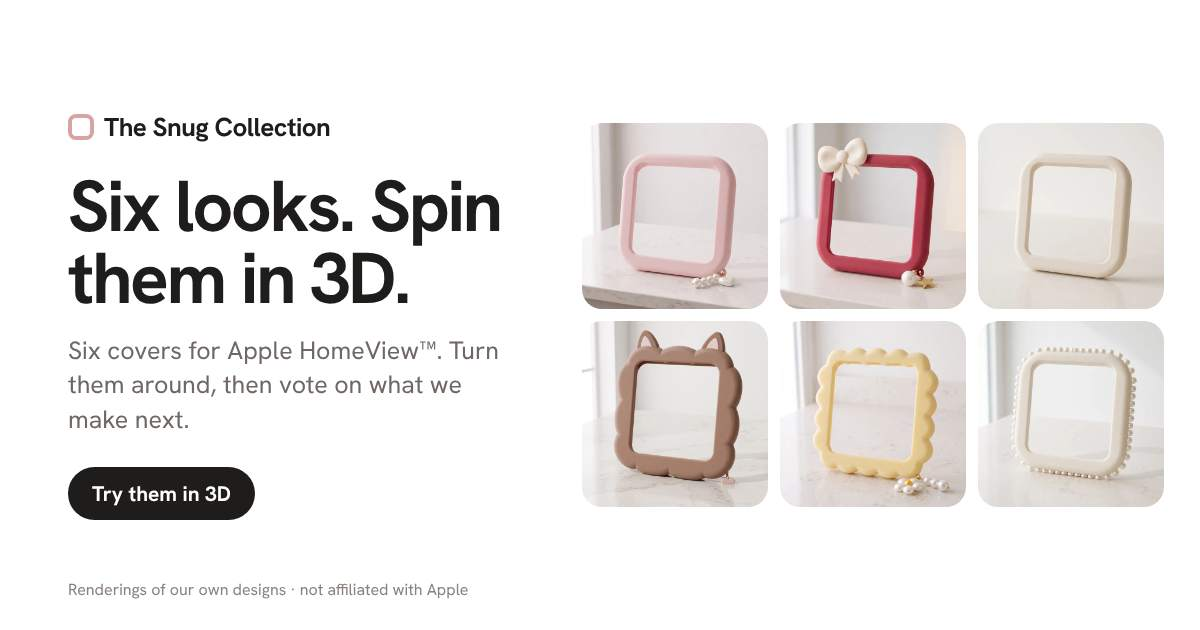
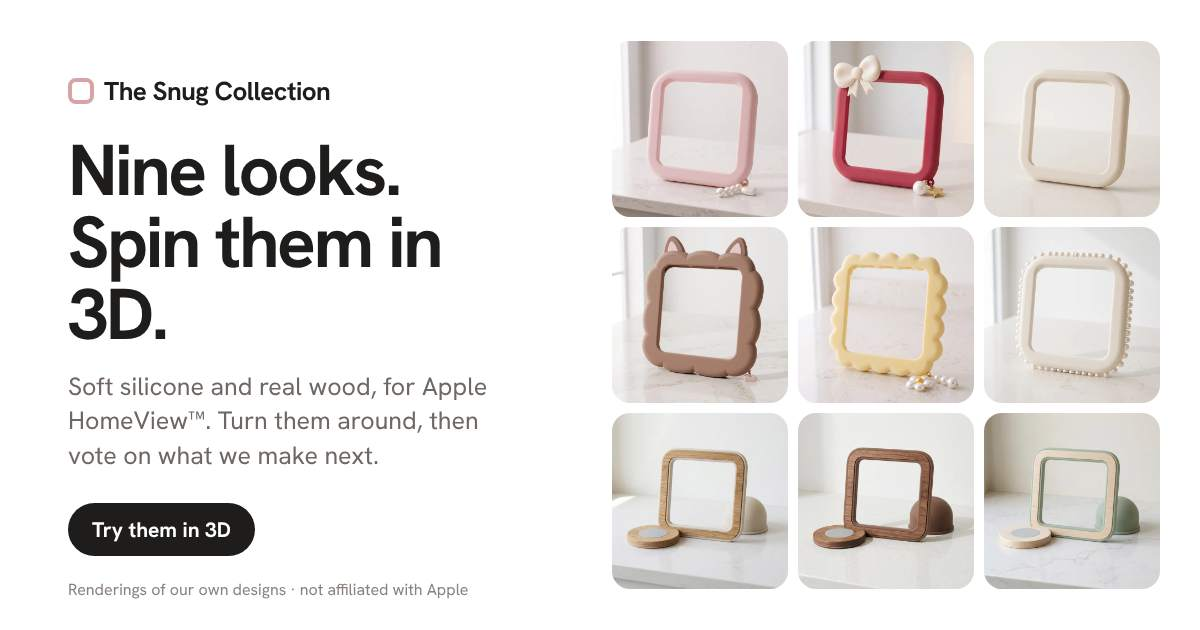
$49 sets, wood looks, and a reorganized home page
- Pricing: every launch set (frame, sweater, base) is $49 with free
  shipping; a cover or a base alone is $34. Wood sets $59, wood cover $44.
  Holly Bow no longer priced separately. "Launch pricing" wording removed.
- Wood: Oak & Oat, Walnut & Cocoa, Maple & Sage. Home section, waitlist
  vote options, and all three in the 3D fitting room (baked grain
  textures, wood-sided base, no finish picker for wood).
- Home order: launch sets, base, wood, next soft looks with fit facts,
  waitlist, FAQ. Nav adds Wood. Fitting room now nine looks.
- FAQ materials and share images updated.

Claude-Session: https://claude.ai/code/session_01CYiDDCTx8Bf11yDRq8LK9D

diff --git a/src/index.html b/src/index.html
@@ -25,7 +25,7 @@
 {"@context":"https://schema.org","@type":"FAQPage","mainEntity":[
 {"@type":"Question","name":"When does it ship?","acceptedAnswer":{"@type":"Answer","text":"HomeView arrives November 13. We test fit, sound and the hinge on real units that week, open pre-orders with real photos, and ship the first drop in December. Made in Georgia, in small batches."}},
 {"@type":"Question","name":"Does the cover change the sound or block the camera?","acceptedAnswer":{"@type":"Answer","text":"The sweater stops above the speaker band and every frame leaves the camera strip open. We measure the sound with and without the cover, and we won't ship a look that changes it."}},
-{"@type":"Question","name":"What is it made of?","acceptedAnswer":{"@type":"Answer","text":"Platinum-cure silicone for the frames, sweaters, toppers and charm loops, and aluminum or nylon for the base. No metal and no magnets anywhere near the device."}},
+{"@type":"Question","name":"What is it made of?","acceptedAnswer":{"@type":"Answer","text":"Platinum-cure silicone for the frames, sweaters, toppers and charm loops, and aluminum or nylon for the base. The wood looks add a 3 mm face of real oak, walnut or maple. No metal and no magnets anywhere near the device."}},
 {"@type":"Question","name":"Will it fit the wall-mounted HomeView?","acceptedAnswer":{"@type":"Answer","text":"The first frames are for the tabletop model. A wall version is on the list if enough of you ask for it."}},
 {"@type":"Question","name":"Is this an Apple product?","acceptedAnswer":{"@type":"Answer","text":"No. The Snug Collection is an independent small business. We make accessories for Apple HomeView and are not affiliated with or endorsed by Apple."}},
 {"@type":"Question","name":"Does joining the waitlist cost anything?","acceptedAnswer":{"@type":"Answer","text":"No. Joining is free and doesn't commit you to buy. You'll get an email when pre-orders open."}}]}]
@@ -69,6 +69,9 @@
 .prices{color:var(--muted)}.prices b{color:var(--ink);font-weight:700}
 .cta{display:flex;gap:12px;flex-wrap:wrap;justify-content:center;margin-top:8px}
 
+/* the set price line and the fit facts */
+.setline{margin-top:26px;font-size:17px}.setline b{font-weight:700}
+.fitblock{margin-top:56px}.fitblock h2{font-size:clamp(26px,4vw,40px)}
 /* the swivel base facts */
 .facts{display:grid;gap:12px;max-width:52ch;margin:24px auto 0;color:var(--muted)}
 .facts b{color:var(--ink);font-weight:700}
@@ -129,7 +132,7 @@
 <img class="ph" src="{{A:img/set-holly.webp}}" width="1200" height="1200" alt="The Holly Bow set: a cranberry frame with an ivory bow, an ivory sweater and an Aluminum base" data-look="holly" loading="lazy" decoding="async">
 <img class="ph" src="{{A:img/set-oat.webp}}" width="1200" height="1200" alt="The Oat Puff set: a cream frame, a cream sweater and a Graphite base" data-look="oat" loading="lazy" decoding="async">
 <canvas id="c" aria-label="Interactive 3D view of the cover. Drag sideways to turn." hidden></canvas>
-<a class="room glass" href="/collection/">All six in 3D</a>
+<a class="room glass" href="/collection/">All nine in 3D</a>
 <button class="spin glass" type="button" id="spinBtn"><svg viewBox="0 0 24 24" fill="none" stroke="currentColor" stroke-width="2" stroke-linecap="round" stroke-linejoin="round" aria-hidden="true"><path d="M3 12a9 9 0 0 1 15.5-6.3M21 12a9 9 0 0 1-15.5 6.3"/><path d="M18 2v4h-4M6 22v-4h4"/></svg>Spin it in 3D</button>
 <p class="hint glass" id="hint">Drag to turn · 3D rendering</p>
 </div>
@@ -140,7 +143,7 @@
 <button class="dot" type="button" style="--c:#E3D6C3" data-look="oat" aria-pressed="false"><span>Oat Puff</span></button>
 </div>
 <p class="pname" id="pname">Blush Puff</p>
-<p class="prices" id="prices"><b>$32</b> cover · <b>$49</b> base · <b>$72</b> the set</p>
+<p class="prices" id="prices"><b>$49</b> the set, free shipping · cover or base alone $34</p>
 <div class="cta"><a class="btn" href="#waitlist">Join the waitlist</a></div>
 <p class="note">Renderings of our own designs. Real photos once we test on real units in November.</p>
 </section></div>
@@ -149,57 +152,72 @@
 <h2>Three to start.<br>You choose what ships first.</h2>
 <p class="lede" style="margin-top:12px">Each look is a thick silicone frame that slips over the screen edge and a silicone sweater for the body, with a base to match. The speaker band and the camera stay open.</p>
 <div class="row3">
-<div><img src="{{A:img/set-blush.webp}}" width="1200" height="1200" alt="The Blush Puff set: frame, sweater and a Cloud base" loading="lazy" decoding="async"><b>Blush Puff</b><small>A puffy pink frame, a matching sweater and a pearl strand charm. $72 the set with a Cloud base.</small><div class="act"><a class="btn ghost small" href="#waitlist" data-pick="blush">Vote for Blush Puff</a></div></div>
-<div><img src="{{A:img/set-holly.webp}}" width="1200" height="1200" alt="The Holly Bow set: frame with bow, ivory sweater and an Aluminum base" loading="lazy" decoding="async"><b>Holly Bow</b><small>Cranberry frame with an ivory bow and an ivory sweater. Holiday run. $76 the set with an Aluminum base.</small><div class="act"><a class="btn ghost small" href="#waitlist" data-pick="holly">Vote for Holly Bow</a></div></div>
-<div><img src="{{A:img/set-oat.webp}}" width="1200" height="1200" alt="The Oat Puff set: frame, cream sweater and a Graphite base" loading="lazy" decoding="async"><b>Oat Puff</b><small>A cream frame and a cream sweater. The quiet one. $72 the set with a Graphite base.</small><div class="act"><a class="btn ghost small" href="#waitlist" data-pick="oat">Vote for Oat Puff</a></div></div>
+<div><img src="{{A:img/set-blush.webp}}" width="1200" height="1200" alt="The Blush Puff set: frame, sweater and a Cloud base" loading="lazy" decoding="async"><b>Blush Puff</b><small>A puffy pink frame, a matching sweater and a pearl strand charm. $49 the set with a Cloud base.</small><div class="act"><a class="btn ghost small" href="#waitlist" data-pick="blush">Vote for Blush Puff</a></div></div>
+<div><img src="{{A:img/set-holly.webp}}" width="1200" height="1200" alt="The Holly Bow set: frame with bow, ivory sweater and an Aluminum base" loading="lazy" decoding="async"><b>Holly Bow</b><small>Cranberry frame with an ivory bow and an ivory sweater. Holiday run. $49 the set with an Aluminum base.</small><div class="act"><a class="btn ghost small" href="#waitlist" data-pick="holly">Vote for Holly Bow</a></div></div>
+<div><img src="{{A:img/set-oat.webp}}" width="1200" height="1200" alt="The Oat Puff set: frame, cream sweater and a Graphite base" loading="lazy" decoding="async"><b>Oat Puff</b><small>A cream frame and a cream sweater. The quiet one. $49 the set with a Graphite base.</small><div class="act"><a class="btn ghost small" href="#waitlist" data-pick="oat">Vote for Oat Puff</a></div></div>
 </div>
 <div class="row3" style="margin-top:36px">
-<div><img src="{{A:img/photo-blush-640.webp}}" width="640" height="640" alt="The Blush Puff frame up close" loading="lazy" decoding="async"><b>The frame, up close</b><small>Puff edge, thick enough to grip the screen without touching the glass. $32 on its own.</small></div>
-<div><img src="{{A:img/photo-holly-640.webp}}" width="640" height="640" alt="The Holly Bow frame up close, with the bow and charms" loading="lazy" decoding="async"><b>The bow clips off</b><small>Holly keeps its frame after the holidays. The bow and charms come off. $36 on its own.</small></div>
-<div><img src="{{A:img/photo-oat-640.webp}}" width="640" height="640" alt="The Oat Puff frame up close" loading="lazy" decoding="async"><b>Nothing to snag</b><small>One cast piece of silicone. Wipes clean. $32 on its own.</small></div>
+<div><img src="{{A:img/photo-blush-640.webp}}" width="640" height="640" alt="The Blush Puff frame up close" loading="lazy" decoding="async"><b>The frame, up close</b><small>Puff edge, thick enough to grip the screen without touching the glass. The cover alone is $34.</small></div>
+<div><img src="{{A:img/photo-holly-640.webp}}" width="640" height="640" alt="The Holly Bow frame up close, with the bow and charms" loading="lazy" decoding="async"><b>The bow clips off</b><small>Holly keeps its frame after the holidays. The bow and charms come off. The cover alone is $34.</small></div>
+<div><img src="{{A:img/photo-oat-640.webp}}" width="640" height="640" alt="The Oat Puff frame up close" loading="lazy" decoding="async"><b>Nothing to snag</b><small>One cast piece of silicone. Wipes clean. The cover alone is $34.</small></div>
 </div>
-<p class="note" style="margin-top:22px">Planned prices. Images are renderings of our own designs; the finished product may vary. No Apple product is shown.</p>
+<p class="setline">Every set is <b>$49</b> with free shipping: frame, sweater and base. A cover or a base on its own is $34.</p>
+<p class="note" style="margin-top:12px">Planned prices. Images are renderings of our own designs; the finished product may vary. No Apple product is shown.</p>
 </div></section>
 
 <section class="sec center" id="base"><div class="wrap">
 <h2>The base. Three finishes.</h2>
 <p class="lede" style="margin-top:12px">A slim swivel ring the HomeView sits in. Turn it toward the stove, the sink or the table with one finger. Aluminum matches the device; Cloud and Graphite match the room.</p>
 <div class="row3">
-<div><img src="{{A:img/base-cloud.webp}}" width="1200" height="1200" alt="The swivel base in Cloud, a matte white finish" loading="lazy" decoding="async"><b>Cloud</b><small>$49</small></div>
-<div><img src="{{A:img/base-aluminum.webp}}" width="1200" height="1200" alt="The swivel base in brushed Aluminum" loading="lazy" decoding="async"><b>Aluminum</b><small>$49</small></div>
-<div><img src="{{A:img/base-graphite.webp}}" width="1200" height="1200" alt="The swivel base in Graphite, a dark matte finish" loading="lazy" decoding="async"><b>Graphite</b><small>$49</small></div>
+<div><img src="{{A:img/base-cloud.webp}}" width="1200" height="1200" alt="The swivel base in Cloud, a matte white finish" loading="lazy" decoding="async"><b>Cloud</b><small>$34 alone, or in any $49 set</small></div>
+<div><img src="{{A:img/base-aluminum.webp}}" width="1200" height="1200" alt="The swivel base in brushed Aluminum" loading="lazy" decoding="async"><b>Aluminum</b><small>$34 alone, or in any $49 set</small></div>
+<div><img src="{{A:img/base-graphite.webp}}" width="1200" height="1200" alt="The swivel base in Graphite, a dark matte finish" loading="lazy" decoding="async"><b>Graphite</b><small>$34 alone, or in any $49 set</small></div>
 </div>
 <div class="facts">
 <p><b>Stops at 170° each way</b> so the power cable never wraps.</p>
 <p><b>No magnets, nothing near the radios.</b> A silicone cup holds the foot; the speaker band stays open.</p>
-<p><b>$49 alone, $72 with any cover.</b> Free shipping on the set.</p>
+<p><b>$34 alone, or part of any $49 set.</b> Free shipping on sets.</p>
 </div>
 <div class="cta" style="margin-top:22px"><a class="btn ghost" href="#waitlist" data-pick="base">Notify me about the base</a></div>
 </div></section>
 
-<section class="alt sec center" id="next"><div class="wrap">
+<section class="alt sec center" id="wood"><div class="wrap">
+<h2>Real wood on the outside.</h2>
+<p class="lede" style="margin-top:12px">A 3 mm face of real oak, walnut or maple, set into a silicone frame. The silicone grips the screen edge, so it slips on the same way the soft covers do. In development: we prototype these after we measure real units.</p>
+<div class="row3">
+<div><img src="{{A:img/look-oak-640.webp}}" width="640" height="640" alt="Oak &amp; Oat: an oak-faced frame with an oat silicone rim, an oat sweater and an oak base" loading="lazy" decoding="async"><b>Oak &amp; Oat</b><small>White oak on oat silicone, with an oak base. Light and warm.</small><div class="act"><a class="btn ghost small" href="#waitlist" data-next="oak">Vote for Oak &amp; Oat</a></div></div>
+<div><img src="{{A:img/look-walnut-640.webp}}" width="640" height="640" alt="Walnut &amp; Cocoa: a walnut-faced frame with a cocoa silicone rim, a cocoa sweater and a walnut base" loading="lazy" decoding="async"><b>Walnut &amp; Cocoa</b><small>American walnut on cocoa silicone. For darker kitchens.</small><div class="act"><a class="btn ghost small" href="#waitlist" data-next="walnut">Vote for Walnut &amp; Cocoa</a></div></div>
+<div><img src="{{A:img/look-maple-640.webp}}" width="640" height="640" alt="Maple &amp; Sage: a maple-faced frame with a sage silicone rim, a sage sweater and a maple base" loading="lazy" decoding="async"><b>Maple &amp; Sage</b><small>Pale maple on sage silicone. A cottage kitchen in one piece.</small><div class="act"><a class="btn ghost small" href="#waitlist" data-next="maple">Vote for Maple &amp; Sage</a></div></div>
+</div>
+<p class="setline">Wood sets are <b>$59</b> with free shipping. A wood cover on its own is $44.</p>
+<div class="cta" style="margin-top:18px"><a class="btn ghost" href="/collection/#oak">Turn them in 3D</a></div>
+<p class="note" style="margin-top:14px">Planned prices. Renderings of our own designs.</p>
+</div></section>
+
+<section class="sec center" id="next"><div class="wrap">
 <h2>Which one next?</h2>
-<p class="lede" style="margin-top:12px">Three looks we're ready to make after the first three. The winner starts in January.</p>
+<p class="lede" style="margin-top:12px">Three more soft looks we're ready to make. They're on the ballot with the wood looks, and the winner starts in January.</p>
 <div class="row3">
 <div><img src="{{A:img/photo-kitty-640.webp}}" width="640" height="640" alt="Cocoa Kitty: a cocoa cloud-edged frame with cat ears" loading="lazy" decoding="async"><b>Cocoa Kitty</b><small>Cat ears and a cloud edge turn the screen into a character.</small><div class="act"><a class="btn ghost small" href="#waitlist" data-next="kitty">Vote for Cocoa Kitty</a></div></div>
 <div><img src="{{A:img/photo-butter-640.webp}}" width="640" height="640" alt="Butter Wave: a butter-yellow wave-edged frame" loading="lazy" decoding="async"><b>Butter Wave</b><small>Butter yellow on a wavy edge, with a daisy and a pearl strand.</small><div class="act"><a class="btn ghost small" href="#waitlist" data-next="butter">Vote for Butter Wave</a></div></div>
 <div><img src="{{A:img/photo-pearl-640.webp}}" width="640" height="640" alt="Pearl Bobbin: a cream frame ringed with pearl beads" loading="lazy" decoding="async"><b>Pearl Bobbin</b><small>Pearl beads ring the frame, so it ships already accessorized.</small><div class="act"><a class="btn ghost small" href="#waitlist" data-next="pearl">Vote for Pearl Bobbin</a></div></div>
 </div>
-<div class="cta" style="margin-top:28px"><a class="btn ghost" href="/collection/">Spin all six in 3D</a></div>
-</div></section>
-
-<section class="sec center" id="fit"><div class="wrap">
+<div class="cta" style="margin-top:28px"><a class="btn ghost" href="/collection/">Spin all nine in 3D</a></div>
+<div class="fitblock" id="fit">
 <h2>Made for the real thing.</h2>
 <div class="facts">
 <p><b>Fits the 7-inch tabletop HomeView.</b> Screen, camera and speakers stay open.</p>
 <p><b>Tested on real units first.</b> Pre-orders open with real photos after the November 13 launch. First drop ships December.</p>
 <p><b>Everything swaps.</b> Frames, sweaters, toppers, charms and base rings are separate parts, so later drops mix with this one.</p>
 </div>
+</div>
 </div></section>
+
+
 
 <section class="alt sec center" id="waitlist"><div class="wrap">
 <h2>Pick the first drop.</h2>
-<p class="lede" style="margin-top:12px">Nothing to pay today. The look with the most votes gets made first, and the waitlist gets launch pricing before anyone else.</p>
+<p class="lede" style="margin-top:12px">Nothing to pay today. The look with the most votes gets made first, and the waitlist hears about pre-orders before anyone else.</p>
 <form class="form" id="wl" novalidate data-endpoint="{{WAITLIST}}">
 <div class="field"><label for="email">Email</label><input id="email" name="email" type="email" required autocomplete="email" inputmode="email" spellcheck="false" placeholder="you@example.com" aria-describedby="email-err"><p class="fe" id="email-err" role="alert"></p></div>
 <fieldset><legend>Which look first?</legend><div class="opts">
@@ -211,6 +229,9 @@
 <span class="opt"><input type="radio" id="n1" name="next_look" value="kitty"><label for="n1"><span class="sw" style="--c:#8B6753"></span>Cocoa Kitty</label></span>
 <span class="opt"><input type="radio" id="n2" name="next_look" value="butter"><label for="n2"><span class="sw" style="--c:#EED27C"></span>Butter Wave</label></span>
 <span class="opt"><input type="radio" id="n3" name="next_look" value="pearl"><label for="n3"><span class="sw" style="--c:#F2E9DB"></span>Pearl Bobbin</label></span>
+<span class="opt"><input type="radio" id="n4" name="next_look" value="oak"><label for="n4"><span class="sw" style="--c:#C49A68"></span>Oak &amp; Oat</label></span>
+<span class="opt"><input type="radio" id="n5" name="next_look" value="walnut"><label for="n5"><span class="sw" style="--c:#6B4A33"></span>Walnut &amp; Cocoa</label></span>
+<span class="opt"><input type="radio" id="n6" name="next_look" value="maple"><label for="n6"><span class="sw" style="--c:#D9BE93"></span>Maple &amp; Sage</label></span>
 </div></fieldset>
 <fieldset><legend>Base finish <span class="muted" style="font-weight:400">(optional)</span></legend><div class="opts">
 <span class="opt"><input type="radio" id="f1" name="finish" value="cloud"><label for="f1"><span class="sw" style="--c:#F3F1EE"></span>Cloud</label></span>
@@ -241,7 +262,7 @@
 <span class="opt"><input type="radio" id="c3" name="hv_color" value="silver"><label for="c3">Silver</label></span>
 <span class="opt"><input type="radio" id="c4" name="hv_color" value="gray"><label for="c4">Space gray</label></span>
 </div></fieldset>
-<fieldset><legend>$32 for a cover, $49 for the base, $72 for the set. Fair?</legend><div class="opts">
+<fieldset><legend>$49 for a set with free shipping, or $34 for a cover or base on its own. Fair?</legend><div class="opts">
 <span class="opt"><input type="radio" id="p1" name="price_ok" value="yes"><label for="p1">Yes</label></span>
 <span class="opt"><input type="radio" id="p2" name="price_ok" value="maybe"><label for="p2">Maybe</label></span>
 <span class="opt"><input type="radio" id="p3" name="price_ok" value="no"><label for="p3">Too much</label></span>
@@ -270,7 +291,7 @@
 <h2 style="margin-bottom:18px">Questions</h2>
 <details open><summary>When does it ship?</summary><div class="ans"><div>HomeView arrives November 13. We test fit, sound and the hinge on real units that week, open pre-orders with real photos, and ship the first drop in December. Made in Georgia, in small batches.</div></div></details>
 <details><summary>Does the cover change the sound or block the camera?</summary><div class="ans"><div>The sweater stops above the speaker band and every frame leaves the camera strip open. We measure the sound with and without the cover, and we won't ship a look that changes it.</div></div></details>
-<details><summary>What is it made of?</summary><div class="ans"><div>Platinum-cure silicone for the frames, sweaters, toppers and charm loops, and aluminum or nylon for the base. No metal and no magnets anywhere near the device.</div></div></details>
+<details><summary>What is it made of?</summary><div class="ans"><div>Platinum-cure silicone for the frames, sweaters, toppers and charm loops, and aluminum or nylon for the base. The wood looks add a 3 mm face of real oak, walnut or maple. No metal and no magnets anywhere near the device.</div></div></details>
 <details><summary>Will it fit the wall-mounted HomeView?</summary><div class="ans"><div>The first frames are for the tabletop model. A wall version is on the list if enough of you ask for it.</div></div></details>
 <details><summary>Is this an Apple product?</summary><div class="ans"><div>No. The Snug Collection is an independent small business. We make accessories for Apple HomeView and are not affiliated with or endorsed by Apple.</div></div></details>
 <details><summary>Does joining the waitlist cost anything?</summary><div class="ans"><div>No. Joining is free and doesn't commit you to buy. You'll get an email when pre-orders open.</div></div></details>

diff --git a/src/collection/index.html b/src/collection/index.html
@@ -2,32 +2,35 @@
 <html lang="en">
 <head>
 {{HEAD}}
-<title>Six looks in 3D · The Snug Collection</title>
-<meta name="description" content="Turn all six Snug Collection covers for Apple HomeView in 3D: Blush Puff, Holly Bow and Oat Puff launch first; vote for Cocoa Kitty, Butter Wave or Pearl Bobbin next. Try the base in Cloud, Aluminum or Graphite.">
+<title>Nine looks in 3D · The Snug Collection</title>
+<meta name="description" content="Turn all nine Snug Collection covers for Apple HomeView in 3D: Blush Puff, Holly Bow and Oat Puff launch first; vote for what comes next, including real-wood covers in oak, walnut and maple. Try the base in Cloud, Aluminum or Graphite.">
 <link rel="canonical" href="{{ORIGIN}}/collection/">
 <meta property="og:type" content="website">
 <meta property="og:site_name" content="The Snug Collection">
 <meta property="og:url" content="{{ORIGIN}}/collection/">
-<meta property="og:title" content="Six looks in 3D · The Snug Collection">
-<meta property="og:description" content="Six soft covers for the new Apple HomeView. Spin them in 3D and vote on what we make next.">
+<meta property="og:title" content="Nine looks in 3D · The Snug Collection">
+<meta property="og:description" content="Soft silicone and real-wood covers for the new Apple HomeView. Spin them in 3D and vote on what we make next.">
 <meta property="og:image" content="{{ORIGIN}}/og-collection.jpg">
 <meta property="og:image:width" content="1200">
 <meta property="og:image:height" content="630">
-<meta property="og:image:alt" content="Six soft silicone frames: blush, holly red, oat, cocoa with cat ears, butter yellow and pearl-trimmed cream">
+<meta property="og:image:alt" content="Nine covers for Apple HomeView: six silicone frames and three with real oak, walnut and maple faces">
 <meta name="twitter:card" content="summary_large_image">
-<meta name="twitter:title" content="Six looks in 3D · The Snug Collection">
-<meta name="twitter:description" content="Six soft covers for the new Apple HomeView. Spin them in 3D and vote on what we make next.">
+<meta name="twitter:title" content="Nine looks in 3D · The Snug Collection">
+<meta name="twitter:description" content="Soft silicone and real-wood covers for the new Apple HomeView. Spin them in 3D and vote on what we make next.">
 <meta name="twitter:image" content="{{ORIGIN}}/og-collection.jpg">
 <link rel="preload" href="{{A:img/photo-blush.webp}}" as="image" type="image/webp" fetchpriority="high">
 <script type="application/ld+json">
-{"@context":"https://schema.org","@type":"CollectionPage","name":"Six looks in 3D","url":"{{ORIGIN}}/collection/","isPartOf":{"@type":"WebSite","name":"The Snug Collection","url":"{{ORIGIN}}/"},
+{"@context":"https://schema.org","@type":"CollectionPage","name":"Nine looks in 3D","url":"{{ORIGIN}}/collection/","isPartOf":{"@type":"WebSite","name":"The Snug Collection","url":"{{ORIGIN}}/"},
 "mainEntity":{"@type":"ItemList","itemListElement":[
 {"@type":"ListItem","position":1,"name":"Blush Puff","url":"{{ORIGIN}}/collection/#blush"},
 {"@type":"ListItem","position":2,"name":"Holly Bow","url":"{{ORIGIN}}/collection/#holly"},
 {"@type":"ListItem","position":3,"name":"Oat Puff","url":"{{ORIGIN}}/collection/#oat"},
 {"@type":"ListItem","position":4,"name":"Cocoa Kitty","url":"{{ORIGIN}}/collection/#kitty"},
 {"@type":"ListItem","position":5,"name":"Butter Wave","url":"{{ORIGIN}}/collection/#butter"},
-{"@type":"ListItem","position":6,"name":"Pearl Bobbin","url":"{{ORIGIN}}/collection/#pearl"}]}}
+{"@type":"ListItem","position":6,"name":"Pearl Bobbin","url":"{{ORIGIN}}/collection/#pearl"},
+{"@type":"ListItem","position":7,"name":"Oak & Oat","url":"{{ORIGIN}}/collection/#oak"},
+{"@type":"ListItem","position":8,"name":"Walnut & Cocoa","url":"{{ORIGIN}}/collection/#walnut"},
+{"@type":"ListItem","position":9,"name":"Maple & Sage","url":"{{ORIGIN}}/collection/#maple"}]}}
 </script>
 <style>
 /* Layout: a one-screen fitting room under the header. Stage left with the look rail beneath it, the look's details on the right; stacks on phones. */
@@ -100,7 +103,7 @@ dl.spec{margin:0;border-top:1px solid var(--line)}
   .rail{grid-auto-flow:row;grid-template-columns:repeat(6,minmax(0,1fr));overflow:visible;gap:8px}
   .lk{grid-template-columns:1fr;justify-items:center;text-align:center;padding:8px 6px 9px;gap:7px}
   .lk img{width:100%;height:auto;aspect-ratio:1;max-width:72px;border-radius:14px}
-  .lk .nm{font-size:13.5px}
+  .lk .nm{font-size:13px;white-space:normal;line-height:1.2;text-align:center}
   .lk .st{display:none}
 }
 @media (max-width:899px){
@@ -149,15 +152,18 @@ dl.spec{margin:0;border-top:1px solid var(--line)}
 <button class="lk" type="button" data-i="3"><img src="{{A:img/thumb-kitty.webp}}" width="160" height="160" alt="" decoding="async"><span class="t"><span class="nm">Cocoa Kitty</span><span class="st">Vote for next</span></span></button>
 <button class="lk" type="button" data-i="4"><img src="{{A:img/thumb-butter.webp}}" width="160" height="160" alt="" decoding="async"><span class="t"><span class="nm">Butter Wave</span><span class="st">Vote for next</span></span></button>
 <button class="lk" type="button" data-i="5"><img src="{{A:img/thumb-pearl.webp}}" width="160" height="160" alt="" decoding="async"><span class="t"><span class="nm">Pearl Bobbin</span><span class="st">Vote for next</span></span></button>
+<button class="lk wood" type="button" data-i="6"><img src="{{A:img/thumb-oak.webp}}" width="160" height="160" alt="" decoding="async"><span class="t"><span class="nm">Oak &amp; Oat</span><span class="st">Wood · vote for next</span></span></button>
+<button class="lk wood" type="button" data-i="7"><img src="{{A:img/thumb-walnut.webp}}" width="160" height="160" alt="" decoding="async"><span class="t"><span class="nm">Walnut &amp; Cocoa</span><span class="st">Wood · vote for next</span></span></button>
+<button class="lk wood" type="button" data-i="8"><img src="{{A:img/thumb-maple.webp}}" width="160" height="160" alt="" decoding="async"><span class="t"><span class="nm">Maple &amp; Sage</span><span class="st">Wood · vote for next</span></span></button>
 </nav>
 
 <aside class="panel" id="panel" aria-live="polite">
-<h1>Six looks, in 3D</h1>
+<h1>Nine looks, in 3D</h1>
 <div id="look">
 <h2 class="name">Blush Puff</h2>
 <span class="status">Launch look</span>
 <p class="pitch">Soft blush, head to toe: a puffy frame, a smooth sweater and a pearl strand charm.</p>
-<p class="price"><b>$32</b> cover · <b>$72</b> with the base</p>
+<p class="price"><b>$49</b> the set with base · <b>$34</b> cover only</p>
 <div class="actions"><a class="btn" href="/?look=blush#waitlist">Vote for Blush Puff</a></div>
 </div>
 <p class="fine">3D renderings of our own designs, shown without the device. Planned prices may change before pre-orders open.</p>
@@ -166,7 +172,7 @@ dl.spec{margin:0;border-top:1px solid var(--line)}
 
 <section class="after"><div class="wrap">
 <h2>Three launch first. You pick what's next.</h2>
-<p class="lede">Join free, vote on the first drop and the next one, and get launch pricing before anyone else.</p>
+<p class="lede">Join free, vote on the first drop and the next one, and get first access when pre-orders open.</p>
 <a class="btn" href="/#waitlist">Join the waitlist</a>
 </div></section>
 </main>

diff --git a/src/assets/viewer.js b/src/assets/viewer.js
@@ -57,7 +57,25 @@ function ruffle(out,mat){ var n=out.length, nm=normals2(out), M=12, W=12, flutes
   var g=new T.BufferGeometry(); g.setAttribute('position',new T.Float32BufferAttribute(pos,3)); g.setIndex(idx); g.computeVertexNormals(); var m=mat.clone(); m.side=T.DoubleSide; return new T.Mesh(g,m); }
 function bobbins(G,out,mat){ var nm=normals2(out), n=out.length, acc=0, step=9.2, last=null; for(var i=0;i<n;i++){ if(last) acc+=Math.hypot(out[i][0]-last[0],out[i][1]-last[1]); last=out[i]; if(acc>=step||i===0){ acc=0; var b=new T.Mesh(new T.SphereGeometry(4.3,18,12),mat); b.position.set(out[i][0]+nm[i][0]*(TR+2.2),out[i][1]+nm[i][1]*(TR+2.2),0); G.add(b); } } }
 function cornerPoint(out,sx,sy){ var best=null,bv=-1e9; out.forEach(function(p){ var v=sx*p[0]+sy*p[1]; if(v>bv){ bv=v; best=p; } }); var l=Math.hypot(best[0],best[1]); return [best[0]+best[0]/l*(TR+1.5), best[1]+best[1]/l*(TR+1.5)]; }
-function buildFrame(L,opts){ opts=opts||{};
+/* wood: grain textures are baked image files, loaded on first use; the page redraws when they arrive */
+var WOODTEX={oak:['{{A:img/wood-oak-map.webp}}','{{A:img/wood-oak-bump.webp}}'],walnut:['{{A:img/wood-walnut-map.webp}}','{{A:img/wood-walnut-bump.webp}}'],maple:['{{A:img/wood-maple-map.webp}}','{{A:img/wood-maple-bump.webp}}']};
+var WOODTINT={oak:'#B98E5E',walnut:'#5A3A26',maple:'#DCC197'}, WT={}, woodWait={};
+function woodTex(key,cb){ if(WT[key]){ cb(WT[key]); return; } var q=woodWait[key]=woodWait[key]||[]; q.push(cb); if(q.length>1) return;
+  var got={}, n=0, ld=new T.TextureLoader(), done=function(){ if(++n<2) return; WT[key]=got; q.forEach(function(f){ f(got); }); woodWait[key]=[]; var sv=global.SnugViewer; if(sv&&sv.onChange) sv.onChange(); };
+  ld.load(WOODTEX[key][0],function(t){ t.encoding=T.sRGBEncoding; t.wrapS=t.wrapT=T.RepeatWrapping; t.anisotropy=8; got.map=t; done(); });
+  ld.load(WOODTEX[key][1],function(t){ t.wrapS=t.wrapT=T.RepeatWrapping; got.bump=t; done(); }); }
+function woodMat(key,o){ o=o||{}; var m=new T.MeshPhysicalMaterial({color:lin(WOODTINT[key]),roughness:0.55,clearcoat:0.1,clearcoatRoughness:0.45,envMapIntensity:0.42});
+  woodTex(key,function(t){ var map=t.map.clone(), bump=t.bump.clone(); map.needsUpdate=bump.needsUpdate=true; map.repeat.set(o.rx||1/260,o.ry||1/140); bump.repeat.copy(map.repeat);
+    if(o.off){ map.offset.set(o.off[0],o.off[1]); bump.offset.copy(map.offset); } m.map=map; m.bumpMap=bump; m.bumpScale=0.25; m.color.set(0xffffff); m.needsUpdate=true; });
+  return m; }
+function rrShape(w,h,r,path){ var s=path?new T.Path():new T.Shape(), x=-w/2, y=-h/2; s.moveTo(x+r,y); s.lineTo(x+w-r,y); s.quadraticCurveTo(x+w,y,x+w,y+r); s.lineTo(x+w,y+h-r); s.quadraticCurveTo(x+w,y+h,x+w-r,y+h); s.lineTo(x+r,y+h); s.quadraticCurveTo(x,y+h,x,y+h-r); s.lineTo(x,y+r); s.quadraticCurveTo(x,y,x+r,y); return s; }
+function buildWoodFrame(L){ var G=new T.Group();
+  var bs=rrShape(168,168,33); bs.holes.push(rrShape(132,132,16,true));
+  var base=new T.Mesh(new T.ExtrudeGeometry(bs,{depth:8,bevelEnabled:true,bevelThickness:2.5,bevelSize:2.5,bevelSegments:6,curveSegments:24}),pmat(L.color,{r:0.72,env:0.55})); base.position.z=-6.5; G.add(base);
+  var ws=rrShape(163,163,30); ws.holes.push(rrShape(137,137,18,true));
+  var ring=new T.Mesh(new T.ExtrudeGeometry(ws,{depth:2.2,bevelEnabled:true,bevelThickness:0.5,bevelSize:0.5,bevelSegments:2,curveSegments:24}),[woodMat(L.wood,{off:[0.31,0.2]}),woodMat(L.wood,{rx:1/60,ry:1/20})]);
+  ring.position.z=3.1; G.add(ring); return sh(G); }
+function buildFrame(L,opts){ opts=opts||{}; if(L.wood) return buildWoodFrame(L);
   var G=new T.Group(), fm=pmat(L.color,{r:0.72,env:0.55,bump:TEX.soft([3,3]),bs:0.2});
   var kind=L.shape, out=outline(kind==='ruffle'||kind==='bobbin'?'puff':kind), hole=holePath(64,7), holeB=holePath(66.5,0);
   var pm=fm.clone(); pm.side=T.DoubleSide;
@@ -114,7 +132,11 @@ var LOOKS={
   oat:{sku:'SS-CV-OAT-01',name:'Oat Puff',shape:'puff',color:'#E3D6C3',sleeve:'boucle',sleeveColor:'#EAE1D2',baseColor:'#C9CBD0',charms:[]},
   kitty:{sku:'SS-CV-KITTY-02',name:'Cocoa Kitty',shape:'cloud',color:'#8B6753',sleeve:'boucle',baseColor:'#C9CBD0',topper:'ears',inner:'#E3B9B3',charms:[{k:'heart',a:['#E3B9B3'],drop:3,dx:1.2,dz:-3.4}]},
   butter:{sku:'SS-CV-BUTTER-02',name:'Butter Wave',shape:'wave',color:'#EED27C',sleeve:'rib',baseColor:'#C9CBD0',charms:[{k:'flower',a:['#fffaf0','#e7b84a'],drop:3,dx:1.2,dz:-3.4},{k:'pearls',a:[3],drop:12,dx:7,dz:3.4}]},
-  pearl:{sku:'SS-CV-PEARL-02',name:'Pearl Bobbin',shape:'bobbin',color:'#F2E9DB',sleeve:'eyelet',holeColor:'#cdbfa8',baseColor:'#C9CBD0',trim:'pearl',charms:[]}
+  pearl:{sku:'SS-CV-PEARL-02',name:'Pearl Bobbin',shape:'bobbin',color:'#F2E9DB',sleeve:'eyelet',holeColor:'#cdbfa8',baseColor:'#C9CBD0',trim:'pearl',charms:[]},
+  /* wood looks: a 3 mm real-wood face set into a silicone frame; sweater stays silicone; the base gets wood sides and top */
+  oak:{sku:'SS-WD-OAK-03',name:'Oak & Oat',shape:'puff',wood:'oak',color:'#E6DCCB',sleeve:'smooth',sleeveColor:'#E6DCCB',baseColor:'#C9CBD0',charms:[]},
+  walnut:{sku:'SS-WD-WALNUT-03',name:'Walnut & Cocoa',shape:'puff',wood:'walnut',color:'#6B5547',sleeve:'smooth',sleeveColor:'#6B5547',baseColor:'#C9CBD0',charms:[]},
+  maple:{sku:'SS-WD-MAPLE-03',name:'Maple & Sage',shape:'puff',wood:'maple',color:'#93A085',sleeve:'smooth',sleeveColor:'#93A085',baseColor:'#C9CBD0',charms:[]}
 };
 /* scene helpers */
 function makeScene(renderer){
@@ -134,7 +156,10 @@ function makeScene(renderer){
 function kit(L,opts){ opts=opts||{}; var G=new T.Group();
   var F=buildFrame(L,{openBack:true}); var tilt=opts.tilt!=null?opts.tilt:12; F.rotation.x=-rad(tilt); F.position.set(0,84+ (L.topper==='ears'?0:0),0); F.position.y=84*Math.cos(rad(tilt))+TR*Math.sin(rad(tilt))+0.5; G.add(F);
   if(opts.sweater!==false){ var W=buildSweater(L); W.position.set(opts.sweaterX!=null?opts.sweaterX:92,0,opts.sweaterZ!=null?opts.sweaterZ:-52); G.add(W); }
-  if(opts.base!==false){ var B=buildBase(opts.ring?Object.assign({},L,{baseColor:opts.ring}):L); B.position.set(opts.baseX!=null?opts.baseX:-96,0,opts.baseZ!=null?opts.baseZ:70); G.add(B); G.userData.ringMat=B.userData.mat; }
+  if(opts.base!==false){ var B=buildBase(opts.ring?Object.assign({},L,{baseColor:opts.ring}):L); B.position.set(opts.baseX!=null?opts.baseX:-96,0,opts.baseZ!=null?opts.baseZ:70); G.add(B); G.userData.ringMat=B.userData.mat;
+    if(L.wood){ var bm=B.userData.mat, side=woodMat(L.wood,{rx:1.6,ry:0.07,off:[0.1,0.3]}), top=woodMat(L.wood,{rx:0.42,ry:0.42,off:[0.3,0.2]});
+      B.traverse(function(o){ if(o.isMesh&&o.material===bm){ var gt=o.geometry.type; o.material=(gt==='RingGeometry'||gt==='TorusGeometry'||(gt==='CylinderGeometry'&&o.geometry.parameters.height<2))?top:side; } });
+      G.userData.ringMat=null; } }
   return G; }
 global.SnugViewer={LOOKS:LOOKS,buildFrame:buildFrame,buildSweater:buildSweater,buildBase:buildBase,kit:kit,makeScene:makeScene,TR:TR,lin:lin};
 })(window);

diff --git a/src/assets/collection.js b/src/assets/collection.js
@@ -1,4 +1,4 @@
-/* The Snug Collection 3D fitting room: six looks, swipe rail, drag to turn, base finishes. */
+/* The Snug Collection 3D fitting room: nine looks (six silicone, three wood), swipe rail, drag to turn, base finishes. */
 (function(){
 'use strict';
 var $=function(id){ return document.getElementById(id); };
@@ -9,17 +9,17 @@ var FINISHES={cloud:{name:'Cloud',sw:'#F3F1EE',color:'#F3F1EE',m:0,r:0.32,cc:0.9
 var DATA=[
  {key:'blush',name:'Blush Puff',status:'Launch look',color:'#D9A3A6',
   pitch:'Soft blush, head to toe: a puffy frame, a smooth sweater and a pearl strand charm.',
-  price:'<b>$32</b> cover · <b>$72</b> with the base',
+  price:'<b>$49</b> the set with base · <b>$34</b> cover only',
   spec:[['Frame','Puff edge, blush silicone'],['Sweater','Blush silicone, rolled lip'],['Charms','Pearl strand and pearl heart']],
   vote:'/?look=blush#waitlist',voteLabel:'Vote for Blush Puff'},
  {key:'holly',name:'Holly Bow',status:'Launch look · holiday limited run',color:'#9B2F3A',
   pitch:'Cranberry with an ivory bow for the holidays. The bow clips off in January and the frame stays.',
-  price:'<b>$36</b> cover · <b>$76</b> with the base',
+  price:'<b>$49</b> the set with base · <b>$34</b> cover only',
   spec:[['Frame','Puff edge, cranberry silicone'],['Sweater','Ivory silicone, rolled lip'],['Topper','Molded ivory bow, clear of the camera'],['Charms','Ornament and gold star']],
   vote:'/?look=holly#waitlist',voteLabel:'Vote for Holly Bow'},
  {key:'oat',name:'Oat Puff',status:'Launch look',color:'#E3D6C3',
   pitch:'Warm oat, frame and sweater. Quiet enough for a shared counter, soft enough to notice.',
-  price:'<b>$32</b> cover · <b>$72</b> with the base',
+  price:'<b>$49</b> the set with base · <b>$34</b> cover only',
   spec:[['Frame','Puff edge, oat silicone'],['Sweater','Oat silicone, rolled lip'],['Charms','Add your own']],
   vote:'/?look=oat#waitlist',voteLabel:'Vote for Oat Puff'},
  {key:'kitty',name:'Cocoa Kitty',status:'Next-drop candidate',color:'#8B6753',
@@ -36,17 +36,32 @@ var DATA=[
   pitch:'Pearl beads ring the frame, so it ships already accessorized.',
   price:'Price set after the vote',
   spec:[['Frame','Puff edge ringed with pearl beads'],['Sweater','Cream silicone'],['Charms','None needed']],
-  vote:'/?next=pearl#waitlist',voteLabel:'Vote to make it next'}
+  vote:'/?next=pearl#waitlist',voteLabel:'Vote to make it next'},
+ {key:'oak',name:'Oak & Oat',status:'Wood · in development',color:'#C49A68',wood:true,
+  pitch:'A thin face of real white oak set into an oat silicone frame. Slips on like the soft covers and feels like wood where you touch it.',
+  price:'<b>$59</b> the set with base · <b>$44</b> cover only',
+  spec:[['Face','White oak, 3 mm, oiled'],['Frame','Oat silicone, grips the screen edge'],['Sweater','Oat silicone'],['Base','Oak sides and top']],
+  vote:'/?next=oak#waitlist',voteLabel:'Vote to make it next'},
+ {key:'walnut',name:'Walnut & Cocoa',status:'Wood · in development',color:'#6B4A33',wood:true,
+  pitch:'American walnut on a cocoa silicone frame. The darker one, for walnut cabinets and warm kitchens.',
+  price:'<b>$59</b> the set with base · <b>$44</b> cover only',
+  spec:[['Face','American walnut, 3 mm, oiled'],['Frame','Cocoa silicone, grips the screen edge'],['Sweater','Cocoa silicone'],['Base','Walnut sides and top']],
+  vote:'/?next=walnut#waitlist',voteLabel:'Vote to make it next'},
+ {key:'maple',name:'Maple & Sage',status:'Wood · in development',color:'#D9BE93',wood:true,
+  pitch:'Pale maple on a sage silicone frame. A cottage kitchen in one piece.',
+  price:'<b>$59</b> the set with base · <b>$44</b> cover only',
+  spec:[['Face','Hard maple, 3 mm, oiled'],['Frame','Sage silicone, grips the screen edge'],['Sweater','Sage silicone'],['Base','Maple sides and top']],
+  vote:'/?next=maple#waitlist',voteLabel:'Vote to make it next'}
 ];
 var N=DATA.length, idx=-1, mode='frame', finish='aluminum', finTouched=false, G3=null;
 var room=$('room'), rail=$('rail'), lookEl=$('look'), hint=$('hint'), still=$('still'), stageEl=$('stage'), badge=$('badge');
 var cards=Array.prototype.slice.call(rail.querySelectorAll('.lk'));
-var stills=['{{A:img/photo-blush.webp}}','{{A:img/photo-holly.webp}}','{{A:img/photo-oat.webp}}','{{A:img/photo-kitty.webp}}','{{A:img/photo-butter.webp}}','{{A:img/photo-pearl.webp}}'];
-var ALTS=['a soft pink silicone frame on a white counter','a cranberry silicone frame with an ivory bow','a cream silicone frame','a cocoa cloud-edged frame with cat ears','a butter-yellow wave-edged frame','a cream frame ringed with pearl beads'];
-function voteHref(d){ return finTouched?d.vote.replace('#','&finish='+finish+'#'):d.vote; }
+var stills=['{{A:img/photo-blush.webp}}','{{A:img/photo-holly.webp}}','{{A:img/photo-oat.webp}}','{{A:img/photo-kitty.webp}}','{{A:img/photo-butter.webp}}','{{A:img/photo-pearl.webp}}','{{A:img/look-oak.webp}}','{{A:img/look-walnut.webp}}','{{A:img/look-maple.webp}}'];
+var ALTS=['a soft pink silicone frame on a white counter','a cranberry silicone frame with an ivory bow','a cream silicone frame','a cocoa cloud-edged frame with cat ears','a butter-yellow wave-edged frame','a cream frame ringed with pearl beads','an oak-faced frame with an oat silicone rim, oat sweater and oak base','a walnut-faced frame with a cocoa silicone rim, cocoa sweater and walnut base','a maple-faced frame with a sage silicone rim, sage sweater and maple base'];
+function voteHref(d){ return (finTouched&&!d.wood)?d.vote.replace('#','&finish='+finish+'#'):d.vote; }
 
 function lookHTML(d){
-  var fin='<div class="finrow"><dt>Base finish</dt><dd><div class="fin" role="group" aria-label="Base finish">'+Object.keys(FINISHES).map(function(k){ var f=FINISHES[k]; return '<button type="button" data-fin="'+k+'" aria-pressed="'+(finish===k)+'" style="--rc:'+f.sw+'"><i></i>'+f.name+'</button>'; }).join('')+'</div></dd></div>';
+  var fin=d.wood?'':'<div class="finrow"><dt>Base finish</dt><dd><div class="fin" role="group" aria-label="Base finish">'+Object.keys(FINISHES).map(function(k){ var f=FINISHES[k]; return '<button type="button" data-fin="'+k+'" aria-pressed="'+(finish===k)+'" style="--rc:'+f.sw+'"><i></i>'+f.name+'</button>'; }).join('')+'</div></dd></div>';
   return '<h2 class="name">'+d.name+'</h2><span class="status">'+d.status+'</span>'+
     '<p class="pitch">'+d.pitch+'</p>'+
     '<p class="price">'+d.price+'</p>'+
@@ -93,6 +108,7 @@ window.addEventListener('hashchange',function(){ var h=location.hash.slice(1); D
 /* ---------- 3D ---------- */
 function initGL(){
   var T=window.THREE, SV=window.SnugViewer; if(!T||!SV) return null;
+  SV.onChange=function(){ dirty=true; };
   var canvas=$('c'), stage=$('stage'), renderer;
   try{ renderer=new T.WebGLRenderer({canvas:canvas,antialias:true,alpha:true}); }catch(e){ return null; }
   var rad=T.MathUtils.degToRad;

diff --git a/src/assets/main.js b/src/assets/main.js
@@ -3,12 +3,13 @@
 'use strict';
 var $=function(id){ return document.getElementById(id); };
 var SS=window.SS||{}, RM=SS.RM;
-var NAMES={blush:'Blush Puff',holly:'Holly Bow',oat:'Oat Puff',kitty:'Cocoa Kitty',butter:'Butter Wave',pearl:'Pearl Bobbin'};
+var NAMES={blush:'Blush Puff',holly:'Holly Bow',oat:'Oat Puff',kitty:'Cocoa Kitty',butter:'Butter Wave',pearl:'Pearl Bobbin',oak:'Oak & Oat',walnut:'Walnut & Cocoa',maple:'Maple & Sage'};
 var FIN={cloud:'Cloud',aluminum:'Aluminum',graphite:'Graphite'};
 /* the base finish each set is photographed with; the 3D matches it */
 var SETFIN={blush:'cloud',holly:'aluminum',oat:'graphite'};
 var FINMAT={cloud:{color:'#F3F1EE',m:0,r:0.32,cc:0.9,env:0.9},aluminum:{color:'#D3D4D7',m:0.95,r:0.28,cc:0,env:1.6},graphite:{color:'#2C2C30',m:0.8,r:0.4,cc:0,env:1.3}};
-var PRICE={blush:'<b>$32</b> cover · <b>$49</b> base · <b>$72</b> the set',holly:'<b>$36</b> cover · <b>$49</b> base · <b>$76</b> the set',oat:'<b>$32</b> cover · <b>$49</b> base · <b>$72</b> the set'};
+/* one price for every launch set; the set is the offer, single pieces are there for people who only want one */
+var SETPRICE='<b>$49</b> the set, free shipping · cover or base alone $34', PRICE={blush:SETPRICE,holly:SETPRICE,oat:SETPRICE};
 
 /* ---------- FAQ: animated open and close ---------- */
 var faq=$('faqwrap');

diff --git a/src/_partials/header.html b/src/_partials/header.html
@@ -1,6 +1,6 @@
 <a class="skip" href="#main">Skip to content</a>
 <header class="site-header" id="hdr"><div class="wrap nav">
 <a class="brand" href="/">{{LOGO}}<span>The Snug Collection</span></a>
-<nav class="links" aria-label="Main"><a href="/#looks">Looks</a><a href="/collection/">3D fitting room</a><a href="/#base">Swivel base</a><a href="/#faq">FAQ</a></nav>
+<nav class="links" aria-label="Main"><a href="/#looks">Looks</a><a href="/#wood">Wood</a><a href="/collection/">3D fitting room</a><a href="/#base">Swivel base</a><a href="/#faq">FAQ</a></nav>
 <a class="btn small" href="/#waitlist">Join the waitlist</a>
 </div></header>
